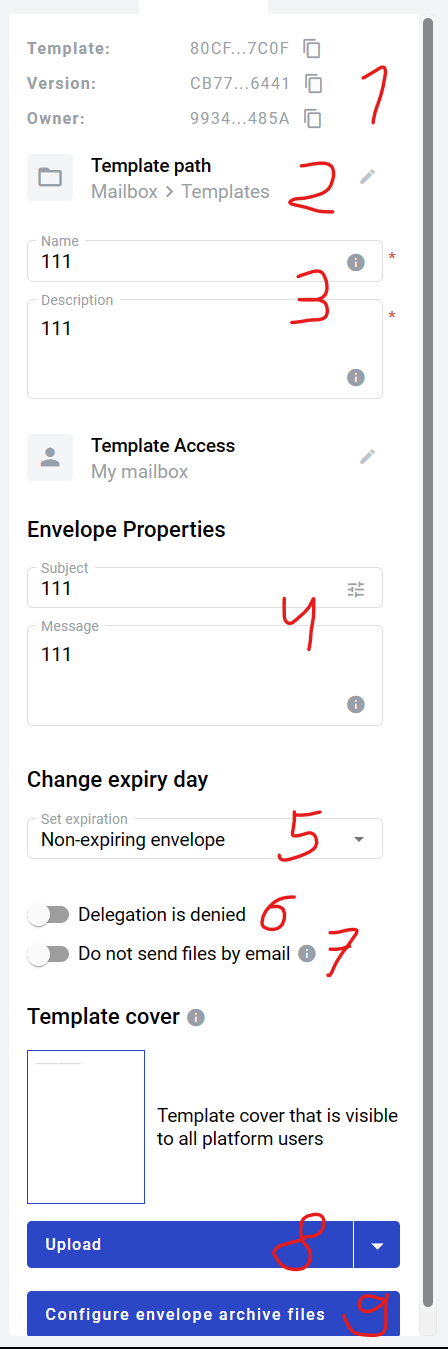
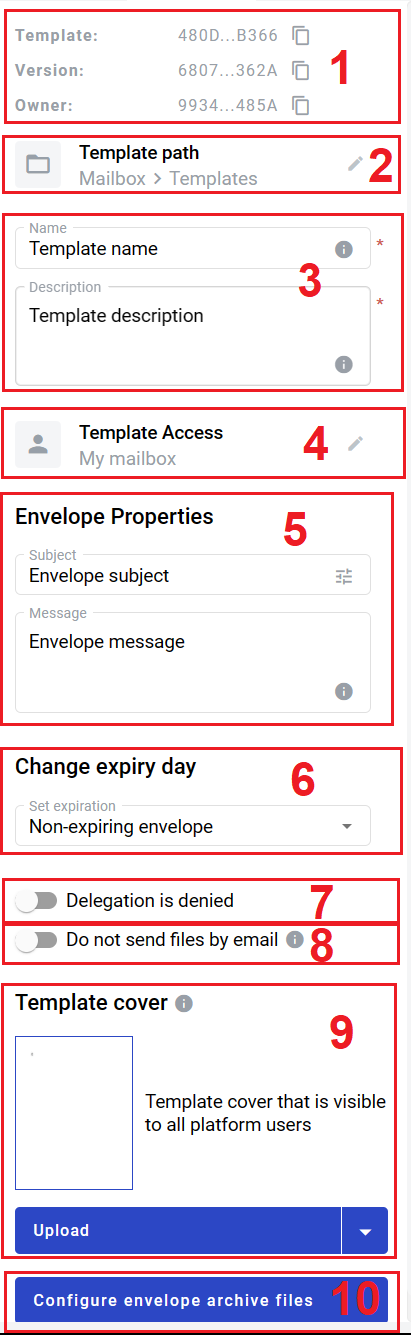
screen and text update

diff --git a/docs/source/pages/howToWorkWithPlatform/mainApplication/templateList/templateManagement/templateCreationEdition/templateCreationEdition.rst b/docs/source/pages/howToWorkWithPlatform/mainApplication/templateList/templateManagement/templateCreationEdition/templateCreationEdition.rst
@@ -33,16 +33,16 @@ On template configuration page you can set some template properties, such as tem
    :width: 300
    :align: center
 
-1. Version info - here you can find UUIDs of template, it's current version and owner mailbox
+1. Version info - appears after template is saved. Here you can find UUIDs of template, it's current version and owner mailbox
 2. Template path - this property allows you to configure template storing location across your mailboxes
 3. Template name and description - these fields are mandatory to save a template
-4. Template access level - property which allows you to set access level of the template according to your needs. You can read more about this functionality :ref:`here <templateAccessLevel>`
-5. Subject and message of envelopes created from this template. If set on template level, it's impossible to change them on envelope level later
+4. Template Access - property which allows you to set access level of the template according to your needs. You can read more about this functionality :ref:`here <templateAccessLevel>`
+5. Envelope Properties - subject and message of envelopes created from a template. If set on template level, it's impossible to change it on envelope level later
 
 .. note:: Advanced subject properties can be opened with properties button in Subject field. From there you can configure dynamic envelope auto-subject for each envelope which will include data from specified dynamics field in the envelope.
 
-6. Envelope expiration property - allows you to configure expiration period of envelopes created from template. If set on template level, it's impossible to change it on envelope level later
-7. Envelope delegation property - allows or denies delegation of the envelope. If set on template level, it's impossible to change it on envelope level later
+6. Envelope expiry day - allows you to configure expiration period of envelopes created from template. If set on template level, it's impossible to change it on envelope level later
+7. Envelope delegation - allows or denies delegation of the envelope. If set on template level, it's impossible to change it on envelope level later
 8. Envelope sending and sharing - this property allows or denies possibility to attach documents to the envelope completion email notification or possibility to share the envelope. If set on template level, it's impossible to change it on envelope level later
 9. Template cover - preview of the template that will be visible mailboxes which have access to template. Can use custom image or dynamically generate preview of first page of the template
-10. Envelope archive files configuration - this feature enables you to configure an envelope archive that can be downloaded upon completion of the envelope. You can read more about this functionality :ref:`here <archiveConfiguration>`
+10. Configure envelope archive files - this feature allows you to configure an envelope archive that can be downloaded upon completion of the envelope. You can read more about this functionality :ref:`here <archiveConfiguration>`
